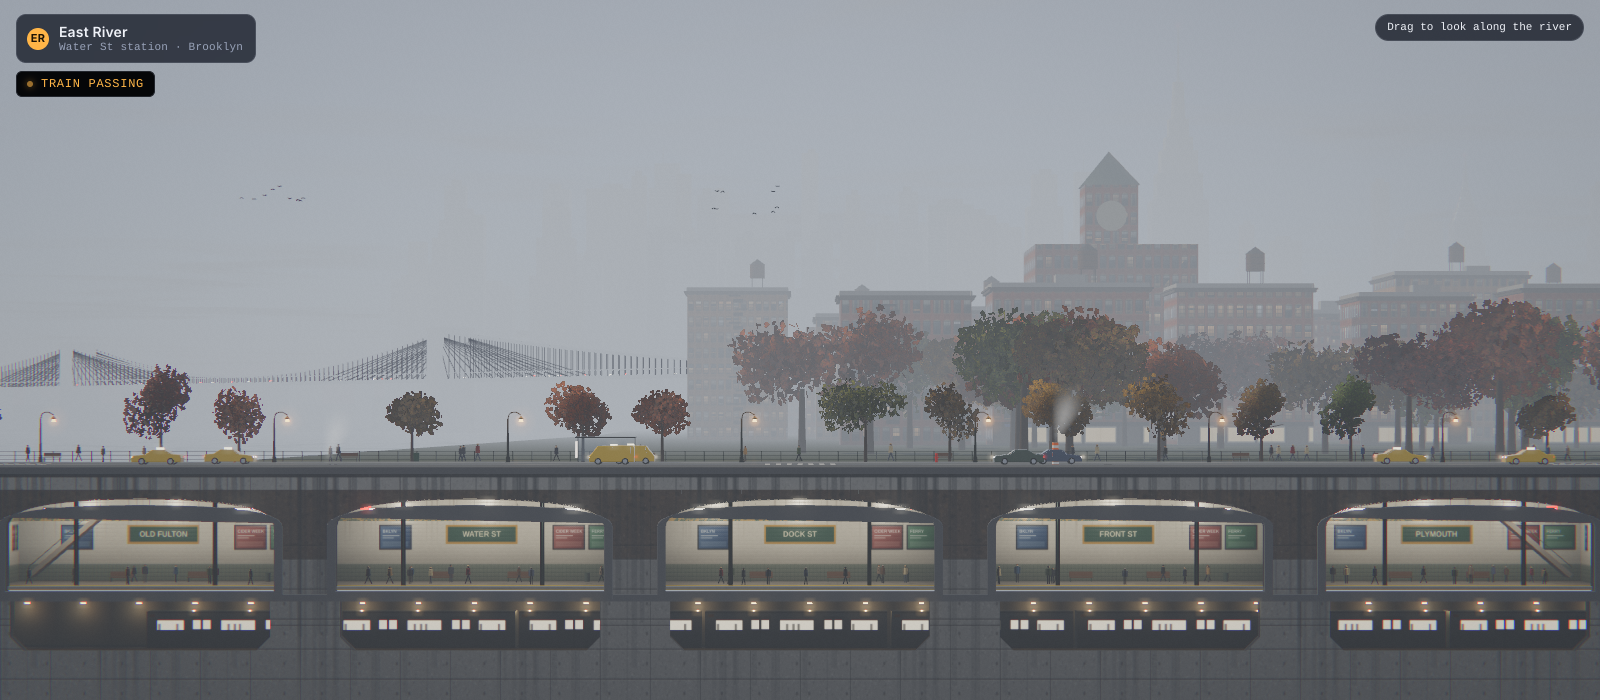
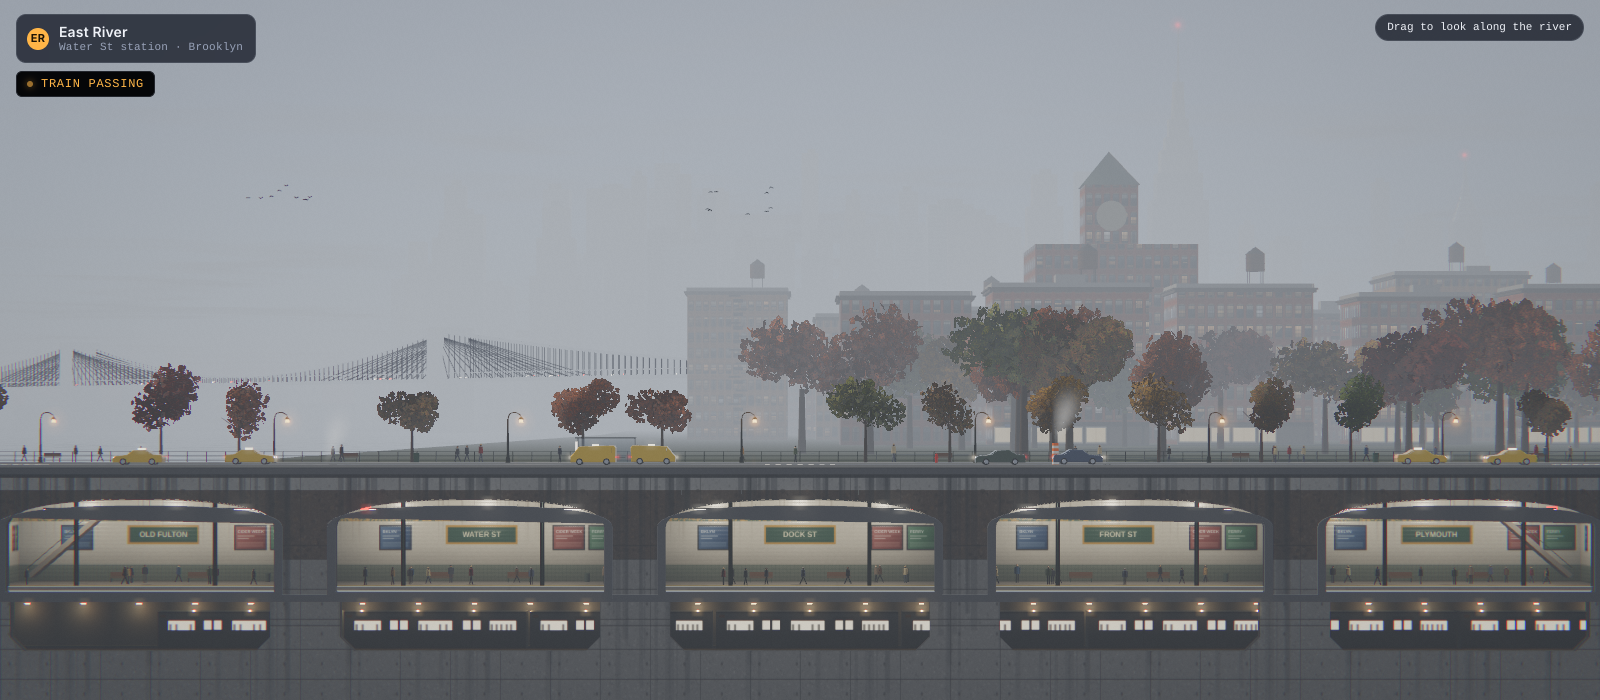
Performance: static batching, reflection culling, quality governor
Bake and merge static meshes per material at load (7,000 -> ~600 draw
calls per frame), skip the street, station and Brooklyn blocks in the
river reflection, move tree sway into the leaf vertex shader, rebuild
the sky lookup less often, cap pixel ratio at 1.5, and step quality
down automatically on slow devices. Adds window.__perf().

Claude-Session: https://claude.ai/code/session_01RpkgeqE7Hogn6KYuo9XJhF

diff --git a/index.html b/index.html
@@ -213,7 +213,7 @@ const D2R = Math.PI / 180;
 const stage = $('#stage');
 const mobile = Math.min(innerWidth, innerHeight) < 700;
 const renderer = new THREE.WebGLRenderer({ antialias: false, powerPreference: 'high-performance', stencil: false });
-const DPR = Math.min(window.devicePixelRatio || 1, mobile ? 1.5 : 1.75);
+const DPR0 = Math.min(window.devicePixelRatio || 1, 1.5); let DPR = DPR0, REFL_S = .5, SHADOW_EVERY = 2;
 renderer.setPixelRatio(DPR);
 const isWGL2 = renderer.capabilities.isWebGL2;
 // Scene-linear HDR all the way to the last pass: bloom sees real highlights and one film curve (AgX) is applied at the end.
@@ -234,7 +234,7 @@ let visH = 70, visW = 160, panX = 0, panRange = 0, lensShift = 0;
 
 const rtOpts = { format: THREE.RGBAFormat, type: HDR ? THREE.HalfFloatType : THREE.UnsignedByteType };
 const rt = isWGL2 ? new THREE.WebGLMultisampleRenderTarget(4, 4, rtOpts) : new THREE.WebGLRenderTarget(4, 4, rtOpts);
-if (isWGL2) rt.samples = 4;
+if (isWGL2) rt.samples = mobile ? 2 : 4;
 const composer = new THREE.EffectComposer(renderer, rt);
 composer.addPass(new THREE.RenderPass(scene, camera));
 const bloom = new THREE.UnrealBloomPass(new THREE.Vector2(256, 256), .32, .5, 1.5);
@@ -533,12 +533,13 @@ function FM(style) {
   if (facadeCache[style]) return facadeCache[style];
   const st = STY[style], t = drawFacade(st);
   const m = new THREE.MeshStandardMaterial({ map: t.map, roughnessMap: t.rm, metalnessMap: t.rm, roughness: 1, metalness: 1, normalMap: t.nrm, normalScale: new THREE.Vector2(.7, .7), emissive: 0xffffff, emissiveMap: t.em, envMapIntensity: 1 });
+  m.userData.org = true;
   const warm = { value: st.warm }, ht = { value: t.ht }, depth = { value: st.kind === 'curtain' ? .028 : .05 };
   m.onBeforeCompile = sh => {
     globalPatch.call(m, sh);
     sh.uniforms.uNight = U.night; sh.uniforms.uLit = U.lit; sh.uniforms.uWarm = warm; sh.uniforms.uHeight = ht; sh.uniforms.uDepth = depth;
-    sh.vertexShader = sh.vertexShader.replace('#include <common>', '#include <common>\nvarying vec2 vSeed; varying float vWY;')
-      .replace('#include <begin_vertex>', '#include <begin_vertex>\nvSeed = floor(modelMatrix[3].xz * 0.37) * 0.0137 + vec2(modelMatrix[3].y * 0.011); vWY = (modelMatrix * vec4(transformed, 1.0)).y;');
+    sh.vertexShader = sh.vertexShader.replace('#include <common>', '#include <common>\nattribute vec3 aOrg; varying vec2 vSeed; varying float vWY;')
+      .replace('#include <begin_vertex>', '#include <begin_vertex>\nvec3 org = aOrg + modelMatrix[3].xyz; vSeed = floor(org.xz * 0.37) * 0.0137 + vec2(org.y * 0.011); vWY = (modelMatrix * vec4(transformed, 1.0)).y;');
     sh.fragmentShader = sh.fragmentShader.replace('#include <common>', `#include <common>
       varying vec2 vSeed; varying float vWY; uniform float uNight, uLit, uWarm, uDepth; uniform sampler2D uHeight; vec2 vUvP;
       float h21(vec2 p){ p = fract(p * vec2(123.34, 456.21)); p += dot(p, p + 45.32); return fract(p.x * p.y); }`)
@@ -1057,8 +1058,13 @@ function leafTex(hues) {
   return tex(c, true, false);
 }
 const LEAF_SETS = [[[42, 88, 44], [36, 84, 40], [48, 76, 48]], [[26, 86, 42], [18, 80, 36], [34, 84, 44]], [[70, 55, 34], [52, 68, 38], [84, 40, 30]], [[10, 72, 34], [20, 78, 38], [4, 64, 28]], [[38, 74, 38], [60, 62, 36], [28, 76, 36]], [[92, 42, 30], [75, 50, 34], [60, 60, 38]]];
+const SWAY = { value: new THREE.Vector2() };
 const LEAF_MATS = LEAF_SETS.map(hs => { const t = leafTex(hs); const m = new THREE.MeshStandardMaterial({ map: t, alphaTest: .5, side: THREE.DoubleSide, roughness: .85, vertexColors: true, envMapIntensity: .7 }); m.userData.base = new THREE.Color(1, 1, 1); m.userData.depth = new THREE.MeshDepthMaterial({ depthPacking: THREE.RGBADepthPacking, map: t, alphaTest: .5 });
+  m.userData.org = true;
   m.onBeforeCompile = sh => { globalPatch.call(m, sh);   // sunlight passing through the leaves when the sun is behind them
+    sh.uniforms.uSway = SWAY;
+    sh.vertexShader = sh.vertexShader.replace('#include <common>', '#include <common>\nattribute vec3 aOrg; uniform vec2 uSway;')
+      .replace('#include <begin_vertex>', '#include <begin_vertex>\n{ float th = sin(uSway.x + fract(aOrg.x * 0.37 + aOrg.z * 0.11) * 6.2832) * uSway.y; vec2 d = transformed.xy - aOrg.xy; transformed.x -= d.y * th; transformed.y += d.x * th; }');
     sh.fragmentShader = sh.fragmentShader.replace('#include <lights_fragment_maps>', `#include <lights_fragment_maps>
       #if NUM_DIR_LIGHTS > 0
         { float tl = pow( saturate( dot( geometry.viewDir, -directionalLights[ 0 ].direction ) ), 2.0 ); reflectedLight.directDiffuse += material.diffuseColor * directionalLights[ 0 ].color * tl * 0.22; }
@@ -1364,7 +1370,7 @@ function precip(kind, n, z0, z1, size) {
       #include <encodings_fragment>
       }`,
   });
-  const obj = kind === 'rain' ? new THREE.LineSegments(g, mat) : new THREE.Points(g, mat); obj.frustumCulled = false; scene.add(obj); return mat;
+  const obj = kind === 'rain' ? new THREE.LineSegments(g, mat) : new THREE.Points(g, mat); obj.frustumCulled = false; obj.userData.noReflect = true; scene.add(obj); return mat;
 }
 const RAINS = [precip('rain', 14000, -1200, 140, 0)];
 const SNOWS = [precip('snow', 26000, -1500, -20, .55), precip('snow', 9000, -20, 135, .16), precip('snow', 1500, 60, 140, .3)];
@@ -1388,7 +1394,7 @@ function setSnow(d) {
 // lightning bolt
 const boltGeo = new THREE.BufferGeometry(); boltGeo.setAttribute('position', new THREE.BufferAttribute(new Float32Array(30 * 3), 3));
 const BOLT_MAT = new THREE.LineBasicMaterial({ color: new THREE.Color(8, 8, 10), transparent: true, opacity: 0, fog: false });
-const bolt = new THREE.Line(boltGeo, BOLT_MAT); bolt.frustumCulled = false; scene.add(bolt);
+const bolt = new THREE.Line(boltGeo, BOLT_MAT); bolt.userData.keepReflect = true; bolt.frustumCulled = false; scene.add(bolt);
 const storm = { timer: 3, age: 99 };
 
 /* ---------- lights ---------- */
@@ -1433,7 +1439,7 @@ function layout() {
   camera.projectionMatrix.elements[9] = lensShift; camera.projectionMatrixInverse.copy(camera.projectionMatrix).invert();
   panRange = Math.max(0, (SCENE_W - 6 - visW) / 2); panX = clamp(panX, -panRange, panRange);
   stage.classList.toggle('pannable', panRange > 0); $('#hint').hidden = !(panRange > 0 && !interacted);
-  const rw = Math.round(w * DPR * .5), rh = Math.round(h * DPR * .5); water.getRenderTarget().setSize(rw, rh);
+  const rw = Math.round(w * DPR * REFL_S), rh = Math.round(h * DPR * REFL_S); water.getRenderTarget().setSize(rw, rh);
   [...RAINS, ...SNOWS].forEach(m => m.uniforms.uViewH.value = h * DPR);
 }
 addEventListener('resize', layout);
@@ -1496,7 +1502,7 @@ function step(dt, now) {
   const night = clamp((1 - sunEl) / 8, 0, 1), day = 1 - night, nightW = clamp((-2 - sunEl) / 8, 0, 1);
   const dayL = .05 + 1.3 * clamp((sunEl + 6) / 20, 0, 1);
   ATM.haze = W.hz * (1 + .35 * clamp((12 - sunEl) / 12, 0, 1) * day);          // a low sun shines through more haze
-  if (Math.abs(sunEl - lutKey[0]) > .02 || Math.abs(ATM.haze - lutKey[1]) > .01) { ATM.fill(sunDir); lutKey[0] = sunEl; lutKey[1] = ATM.haze; if (!playing) envDirty = true; }
+  if (Math.abs(sunEl - lutKey[0]) > .1 || Math.abs(ATM.haze - lutKey[1]) > .01) { ATM.fill(sunDir); lutKey[0] = sunEl; lutKey[1] = ATM.haze; if (!playing) envDirty = true; }
   ATM.sunT(sunDir.y, SUNT);
   SUNC.setRGB(Math.pow(SUNT.r, .8), Math.pow(SUNT.g, .8), Math.pow(SUNT.b, .8));
   const sunLum = Math.max(SUNC.r, SUNC.g, SUNC.b, 1e-4), sunIll = SUN_I * sunLum * Math.pow(1 - dk, 2.2);
@@ -1575,7 +1581,7 @@ function step(dt, now) {
   BUS_WIN.emissiveIntensity = nL; BOAT_WIN.emissiveIntensity = nL; STORE_M.emissiveIntensity = nL * 1.2; window.__ad.color.setRGB(.9, .85, .8).multiplyScalar(.6 + nL * 3);
   BEACON.opacity = (.3 + .7 * night) * (Math.sin(T * 3.0) > .3 ? 1 : .05);
   const wind = 1 + W.storm * 3 + W.rain;
-  trees.forEach(t => { t.userData.can.rotation.z = Math.sin(T * (0.8 + W.storm) + t.userData.ph) * .015 * wind; });
+  SWAY.value.set(T * (0.8 + W.storm), .015 * wind);
 
   // people
   const hurry = 1 + clamp(W.rain, 0, 1) * .3;
@@ -1656,15 +1662,120 @@ function step(dt, now) {
   camera.lookAt(panX + pmx * 1.6, EYE - pmy * .5, -1000);
   camera.projectionMatrix.elements[9] = lensShift;
   skyDome.position.copy(camera.position);
-  if (frameNo % 2 === 0 || dt === 0) renderer.shadowMap.needsUpdate = true;
+  if (frameNo % SHADOW_EVERY === 0 || dt === 0) renderer.shadowMap.needsUpdate = true;
   updateUI(now);
+}
+/* ---------- performance: static batching, reflection culling, quality governor ---------- */
+// Everything that never moves is baked to world space and merged per material, so a frame is a few hundred draw calls instead of thousands.
+[water, skyDome, bolt, TRAIN, plane, heli, ...boats.map(b => b.m), ...lanes.flatMap(L => L.cars)].forEach(o => o.userData.dyn = true);
+const overLand = b => b.min.z > -13 || (b.min.x > -20 && b.min.z > -2600);   // nothing here can show up in the river
+function mergeStatic() {
+  scene.updateMatrixWorld(true);
+  const buckets = new Map(), done = [], box = new THREE.Box3(), v = new THREE.Vector3(), nm = new THREE.Matrix3(), org = new THREE.Vector3();
+  const okMat = m => !m.transparent || (m.blending === THREE.AdditiveBlending && !m.depthWrite);
+  (function walk(o) {
+    if (o.userData.dyn || !o.visible) return;
+    if (o.type === 'Mesh' && !o.isInstancedMesh && o.geometry.attributes.position && !o.geometry.morphAttributes.position) {
+      const g = o.geometry, mats = Array.isArray(o.material) ? o.material : [o.material];
+      if (mats.every(okMat)) {
+        if (!g.boundingBox) g.computeBoundingBox();
+        box.copy(g.boundingBox).applyMatrix4(o.matrixWorld);
+        const far = box.max.z < -1500, nr = overLand(box), total = g.index ? g.index.count : g.attributes.position.count;
+        const names = Object.keys(g.attributes).sort(), sig = names.map(n => n + g.attributes[n].itemSize + g.attributes[n].array.constructor.name + (g.attributes[n].normalized ? 'n' : '')).join(',');
+        const ranges = Array.isArray(o.material) ? g.groups.map(q => [mats[q.materialIndex], q.start, Math.min(q.count, total - q.start)]) : [[o.material, 0, total]];
+        for (const [m, start, count] of ranges) {
+          if (!m || count <= 0) continue;
+          const cast = o.castShadow && !far, key = [m.uuid, nr, far, cast, o.receiveShadow, o.customDepthMaterial ? o.customDepthMaterial.uuid : '', o.renderOrder, sig].join('|');
+          let b = buckets.get(key); if (!b) buckets.set(key, b = { m, nr, cast, recv: o.receiveShadow, dm: o.customDepthMaterial, ro: o.renderOrder, names, parts: [] });
+          b.parts.push({ o, g, start, count });
+        }
+        done.push(o);
+      }
+    }
+    o.children.slice().forEach(walk);
+  })(scene);
+  let merged = 0;
+  for (const b of buckets.values()) {
+    const first = b.parts[0].g, out = {}, idx = []; let nv = 0;
+    b.names.forEach(n => out[n] = []); const orgA = b.m.userData.org ? [] : null;
+    for (const { o, g, start, count } of b.parts) {
+      const mw = o.matrixWorld, flip = mw.determinant() < 0, gi = g.index ? g.index.array : null, map = new Map(); nm.getNormalMatrix(mw); org.setFromMatrixPosition(mw);
+      const at = b.names.map(n => g.attributes[n]);
+      for (let i = 0; i < count; i++) {
+        let j = i; if (flip) { const r3 = i % 3; j = r3 === 1 ? i + 1 : r3 === 2 ? i - 1 : i; }
+        const src = gi ? gi[start + j] : start + j; let dst = map.get(src);
+        if (dst === undefined) {
+          dst = nv++; map.set(src, dst);
+          b.names.forEach((n, k) => { const a = at[k], arr = out[n];
+            if (n === 'position') { v.fromBufferAttribute(a, src).applyMatrix4(mw); arr.push(v.x, v.y, v.z); }
+            else if (n === 'normal') { v.fromBufferAttribute(a, src).applyMatrix3(nm).normalize(); arr.push(v.x, v.y, v.z); }
+            else { const sz = a.itemSize, ar = a.array; for (let c = 0; c < sz; c++) arr.push(ar[src * sz + c]); } });
+          if (orgA) orgA.push(org.x, org.y, org.z);
+        }
+        idx.push(dst);
+      }
+    }
+    const G = new THREE.BufferGeometry();
+    b.names.forEach(n => { const a = first.attributes[n]; G.setAttribute(n, new THREE.BufferAttribute(new a.array.constructor(out[n]), a.itemSize, a.normalized)); });
+    if (orgA) G.setAttribute('aOrg', new THREE.BufferAttribute(new Float32Array(orgA), 3));
+    G.setIndex(new THREE.BufferAttribute(nv > 65535 ? new Uint32Array(idx) : new Uint16Array(idx), 1));
+    const M = new THREE.Mesh(G, b.m); M.castShadow = b.cast; M.receiveShadow = b.recv; M.renderOrder = b.ro; if (b.dm) M.customDepthMaterial = b.dm;
+    M.matrixAutoUpdate = false; M.userData.dyn = true; if (b.nr) M.userData.noReflect = true; scene.add(M); merged++;
+  }
+  const gone = new Set();
+  done.forEach(o => { o.children.slice().forEach(c => o.parent.attach(c)); o.parent.remove(o); gone.add(o.geometry); });
+  scene.traverse(o => { if (o.geometry) gone.delete(o.geometry); }); gone.forEach(g => g.dispose());
+  return [done.length, merged];
+}
+// The river can only mirror what stands beyond it: the street, the station and the Brooklyn blocks are skipped in the reflection pass.
+const noRefl = [];
+function cullReflection() {
+  scene.updateMatrixWorld(true);
+  const bb = new THREE.Box3(), tb = new THREE.Box3(), m4 = new THREE.Matrix4(), p = new THREE.Vector3();
+  const boxOf = o => { bb.makeEmpty(); o.traverse(c => {
+    if (c.isInstancedMesh) { for (let i = 0; i < c.count; i++) { c.getMatrixAt(i, m4); bb.expandByPoint(p.setFromMatrixPosition(m4).applyMatrix4(c.matrixWorld)); } }
+    else if (c.isSprite) bb.expandByPoint(p.setFromMatrixPosition(c.matrixWorld))
+    else if (c.geometry && c.geometry.attributes.position) { if (!c.geometry.boundingBox) c.geometry.computeBoundingBox(); bb.union(tb.copy(c.geometry.boundingBox).applyMatrix4(c.matrixWorld)); } }); return bb; };
+  (function visit(o) {
+    if (o.isLight || o === water || o === skyDome || o.userData.keepReflect) return;
+    if (o.userData.noReflect) { noRefl.push(o); return; }
+    let light = false; o.traverse(c => { if (c.isLight) light = true; });
+    if (!light && o !== scene) { const b = boxOf(o); if (b.isEmpty()) return; if (overLand(b)) { noRefl.push(o); return; } }
+    o.children.forEach(visit);
+  })(scene);
+  const base = water.onBeforeRender;
+  water.onBeforeRender = function () {
+    for (let i = 0; i < noRefl.length; i++) { const o = noRefl[i]; o.userData.v = o.visible; o.visible = false; }
+    base.apply(this, arguments);
+    for (let i = 0; i < noRefl.length; i++) noRefl[i].visible = noRefl[i].userData.v;
+  };
+}
+// If the device cannot hold about 45 fps, step quality down once and stay there: resolution first, then reflection and shadow cost.
+const gov = { on: true, tier: 0, acc: 0, n: 0, t0: 0 };
+function setTier(t) {
+  gov.tier = t;
+  DPR = DPR0 * (t >= 3 ? .62 : t >= 1 ? .8 : 1); REFL_S = t >= 2 ? .33 : .5; SHADOW_EVERY = t >= 2 ? 4 : 2;
+  if (t >= 3 && sun.shadow.mapSize.x > 2048) { sun.shadow.mapSize.set(2048, 2048); if (sun.shadow.map) { sun.shadow.map.dispose(); sun.shadow.map = null; } }
+  renderer.setPixelRatio(DPR); composer.setPixelRatio(DPR); layout(); renderer.shadowMap.needsUpdate = true;
 }
 let last = performance.now() / 1000;
 function frame(nowMs) {
-  const now = nowMs / 1000, dt = Math.min(.05, Math.max(0, now - last)); last = now;
+  const now = nowMs / 1000, raw = now - last, dt = Math.min(.05, Math.max(0, raw)); last = now;
+  if (gov.on && gov.tier < 3 && raw < .25) {
+    if (!gov.t0) gov.t0 = now;
+    if (now - gov.t0 > 3) { gov.acc += raw; if (++gov.n >= 90) { if (gov.acc / gov.n > 1 / 42) setTier(gov.tier + 1); gov.acc = gov.n = 0; } }
+  }
   step(dt, nowMs); composer.render(); requestAnimationFrame(frame);
 }
-layout(); step(.016, 0); renderer.shadowMap.needsUpdate = true; updateEnv(); requestAnimationFrame(frame);
+const MERGED = mergeStatic();
+layout(); step(.016, 0); cullReflection(); renderer.shadowMap.needsUpdate = true; updateEnv(); requestAnimationFrame(frame);
+window.__gov = v => { gov.on = v; }; window.__tier = setTier;
+window.__perf = () => { const r = renderer, I = r.info, o = { merged: MERGED, noRefl: noRefl.length, tier: gov.tier, dpr: +DPR.toFixed(2) }; I.autoReset = false;
+  const run = (sh, wa) => { I.reset(); r.shadowMap.needsUpdate = sh; water.visible = wa; composer.render(); return [I.render.calls, I.render.triangles]; };
+  const a = run(false, false), b = run(false, true), c = run(true, true); water.visible = true; I.autoReset = true;
+  o.main = a; o.reflection = [b[0] - a[0], b[1] - a[1]]; o.shadow = [c[0] - b[0], c[1] - b[1]]; o.total = c; o.geometries = I.memory.geometries; o.textures = I.memory.textures; o.programs = I.programs.length;
+  let n = 0; scene.traverse(x => { if (x.isMesh || x.isPoints || x.isLine || x.isSprite) n++; }); o.objects = n;
+  let t = performance.now(); for (let i = 0; i < 200; i++) step(0, 0); o.stepMs = +((performance.now() - t) / 200).toFixed(3); return o; };
 window.__setTime = h => { H = h; envDirty = true; }; window.__setWx = k => { wxKey = k; Object.assign(W, WX[k]); envDirty = true; };
 window.__pause = () => { playing = false; syncPlay(); };
 window.__snowNow = v => { snowDepth = v; };

diff --git a/README.md b/README.md
@@ -45,5 +45,6 @@ Dependencies (three r128 plus its EffectComposer, UnrealBloomPass and Reflector 
 
 ## Notes
 
-- Heavy scene: bloom, planar reflection, soft shadows and parallax mapping. Older phones will run it slowly; the control panel collapses with the arrow button so the subway is visible on narrow screens.
+- Performance: everything static is baked to world space and merged per material at load (about 1,570 meshes into 162), the river reflection skips whatever cannot appear in it, and a frame is roughly 600 draw calls instead of 7,000. If a device cannot hold about 45 fps, a governor steps quality down once (resolution, then reflection and shadow cost). `window.__perf()` in the console reports draw calls and triangles per pass.
+- Still a heavy scene for fill rate: HDR bloom, planar reflection, soft shadows and parallax mapping. The control panel collapses with the arrow button so the subway is visible on narrow screens.
 - Built with Three.js r128. Nothing to compile.
